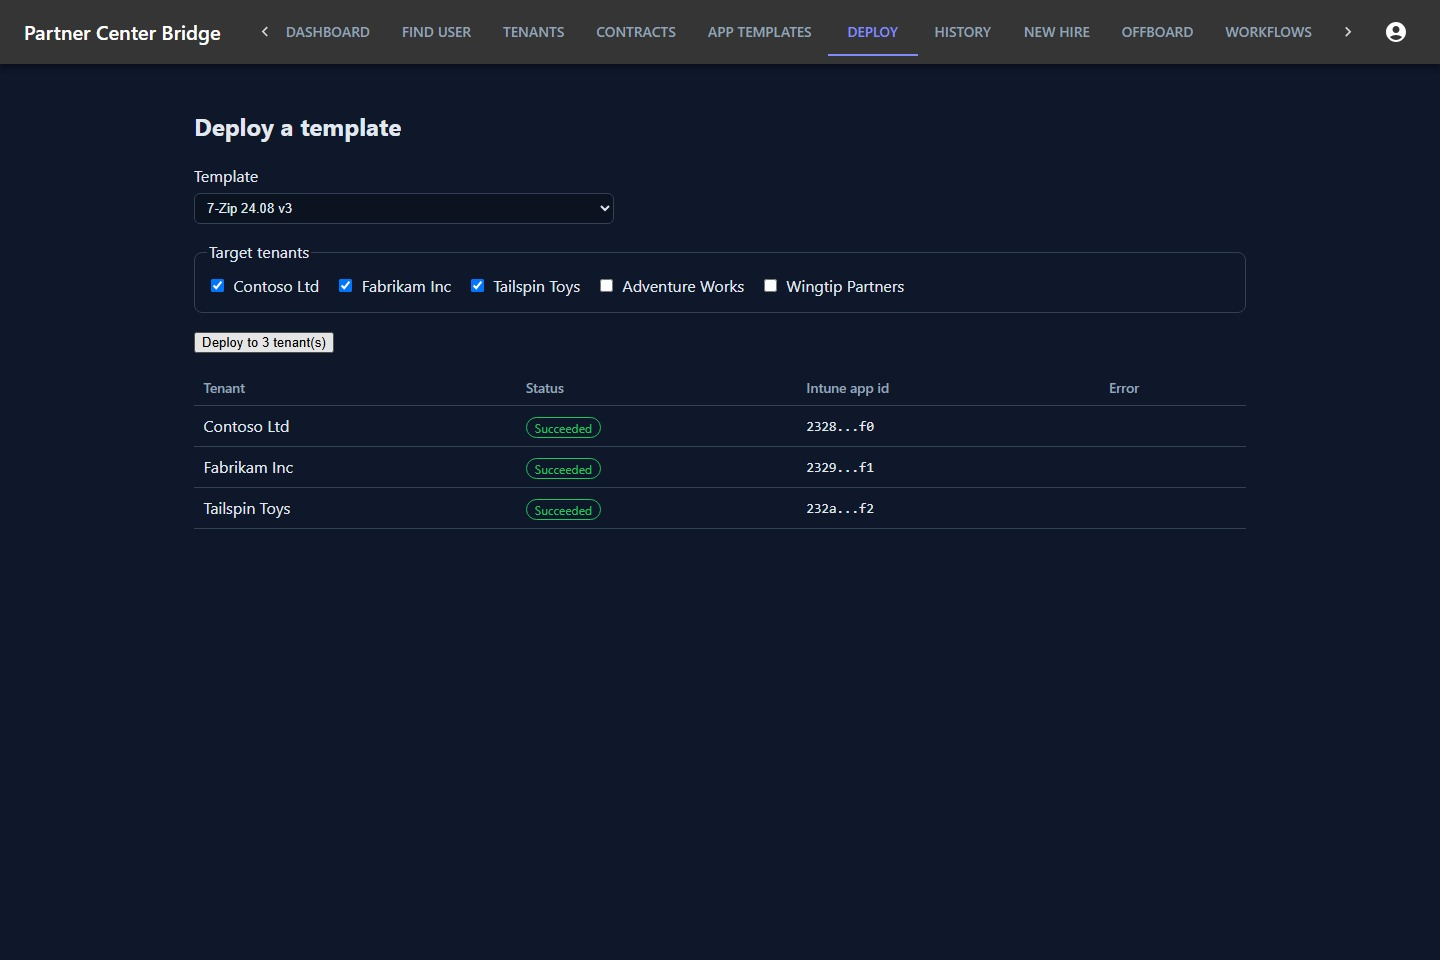
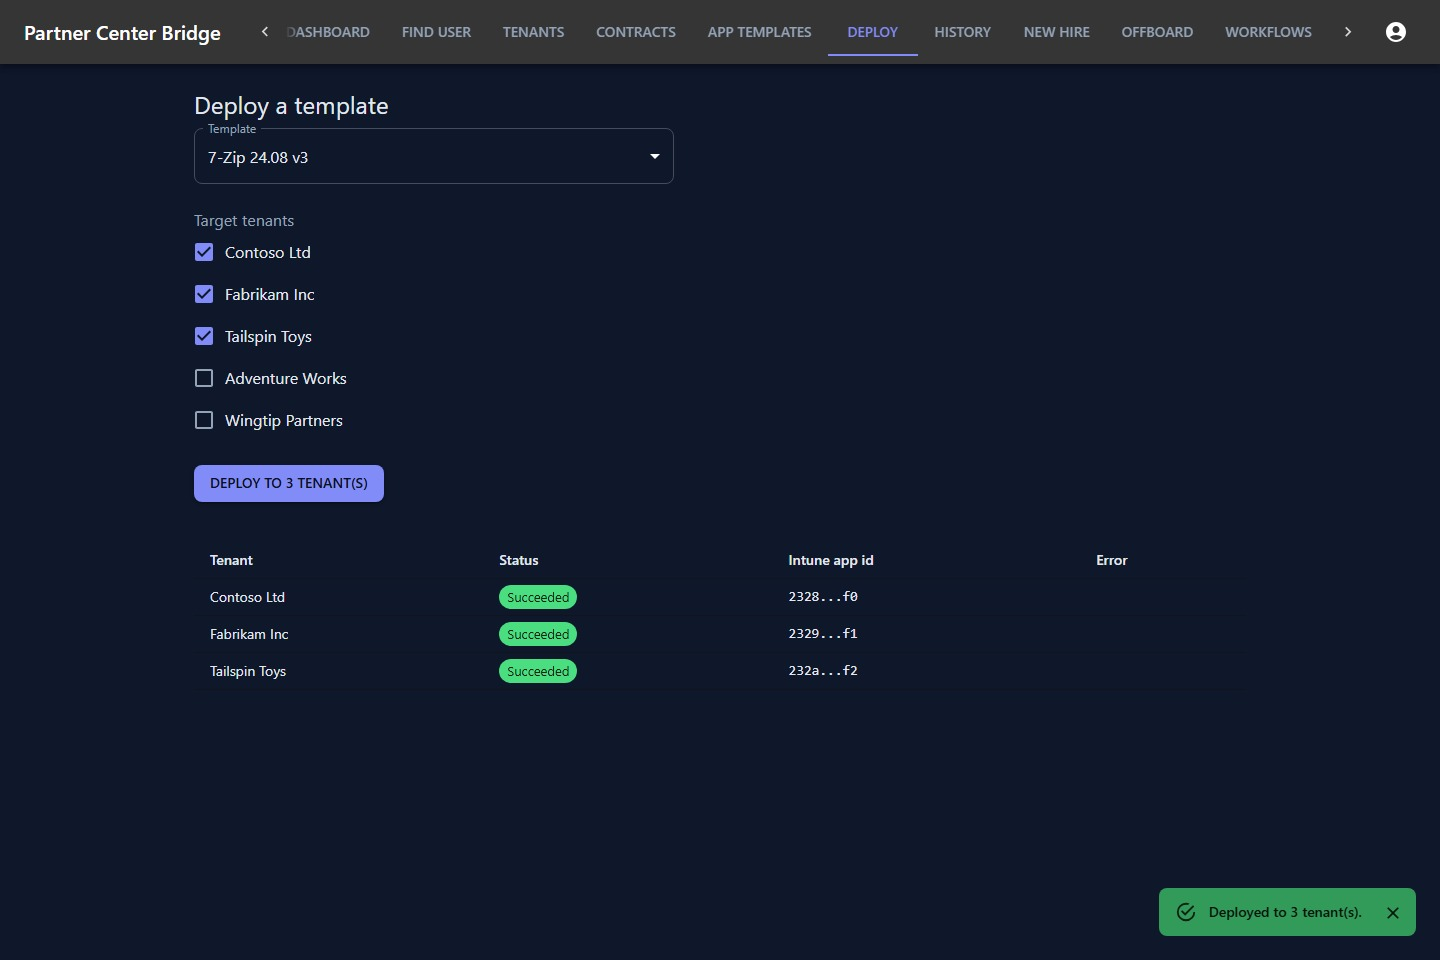
Update docs site for v0.6.0: MUI screenshots, version badge, capture-script fixes
The product screenshots were still showing the pre-MUI hand-rolled UI --
capture-product-media.mjs's tab-click selector was fixed for MUI Tabs
after PR #20 but never actually re-run, so the stale images shipped
anyway. Fix the rest of the script's selectors for MUI Select/Checkbox
markup and the useConfirm dialog now gating Deploy, then regenerate.

diff --git a/docs/index.html b/docs/index.html
@@ -252,7 +252,7 @@
   <section class="hero" aria-labelledby="hero-title">
     <div class="wrap">
       <div class="hero-content">
-        <div class="release"><i></i> Open source &middot; self-hosted &middot; v0.5.1</div>
+        <div class="release"><i></i> Open source &middot; self-hosted &middot; v0.6.0</div>
         <h1 id="hero-title">Cross-tenant Microsoft&nbsp;365 ops,<br><span>done the same way every time.</span></h1>
         <p class="lead">
           A self-hosted bridge over Microsoft Graph and the Partner Center API for MSPs.
